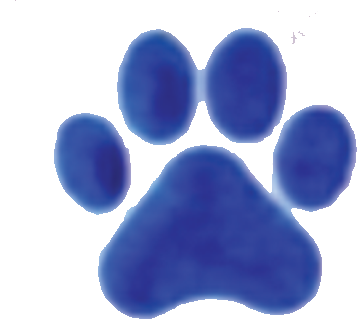
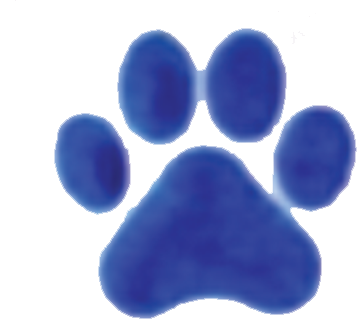
update

diff --git a/index.html b/index.html
@@ -17,7 +17,7 @@
 
 <p>You used to sit around a drawing book with your friends or cousins and reminice about the past? The giggles that would signal an unforgettable memory as markers and pens collaborated on the page. My drawing machine travels from the past, from a time before actuality sketched itself into the real world, a world so different than that of the coloring books. Like these stamp-tip markers, our ambitions are becoming rare.  </p>
 
-<h3>hit 's' to archive your ambition</h3>
+<h3>hit 's' to save your ambition</h3>
 
 
 </body>

diff --git a/sketch.js b/sketch.js
@@ -6,7 +6,7 @@ let drawingbook;
 
 function preload() {
 
-img = loadImage('images/stamp2.png')
+img = loadImage('images/stamp4.png')
 drawingbook = loadImage('images/drawingbook.png')
 
 }
